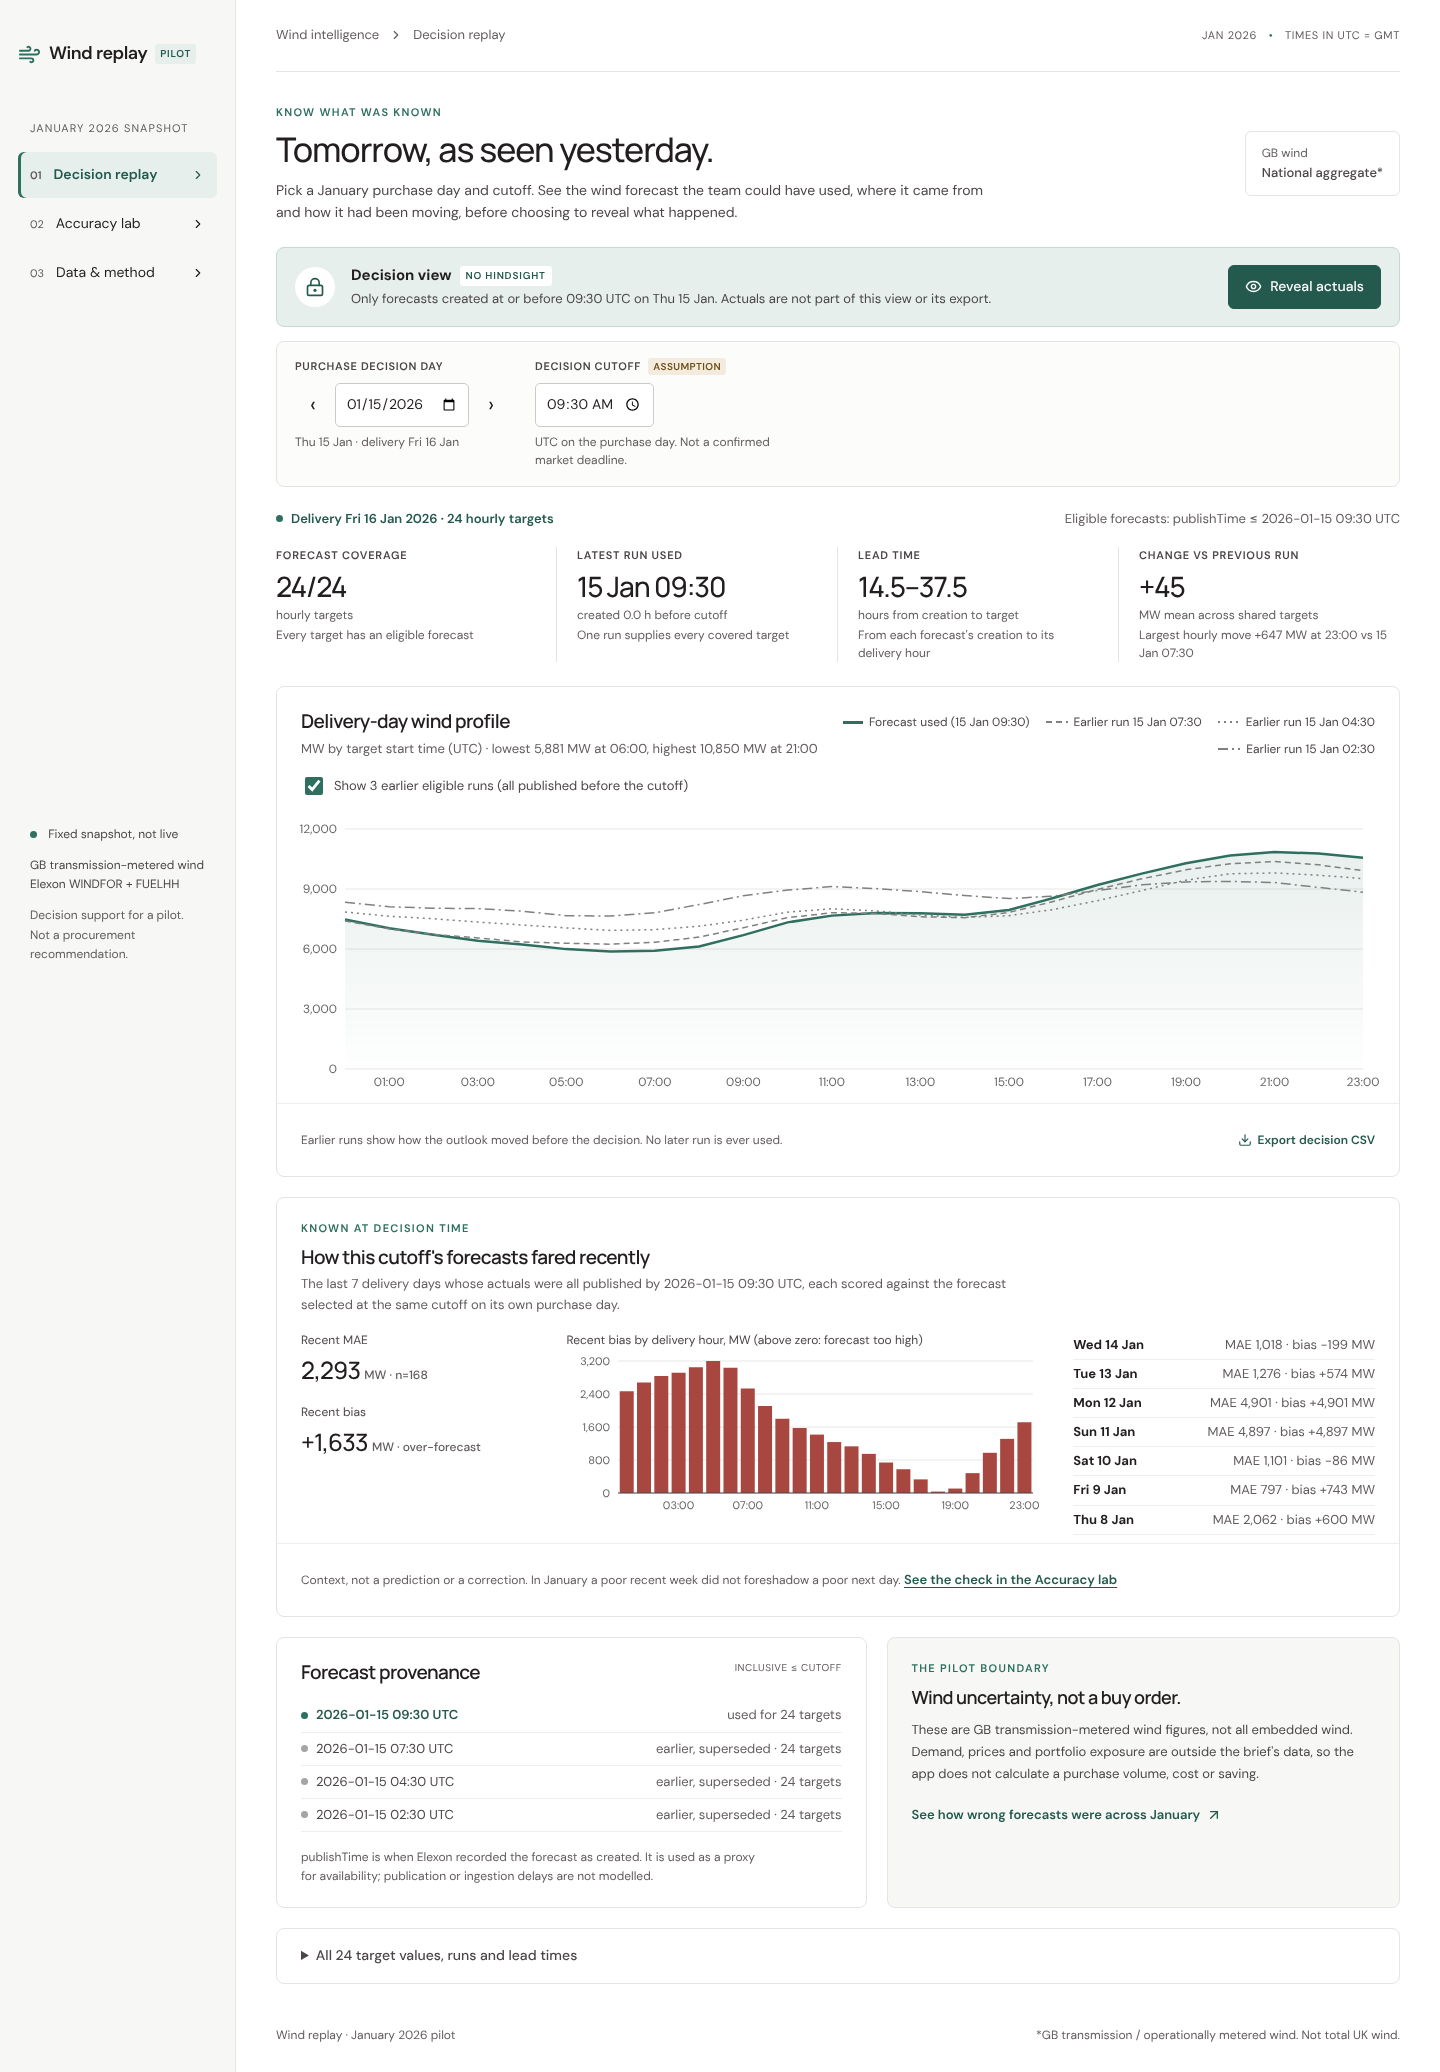
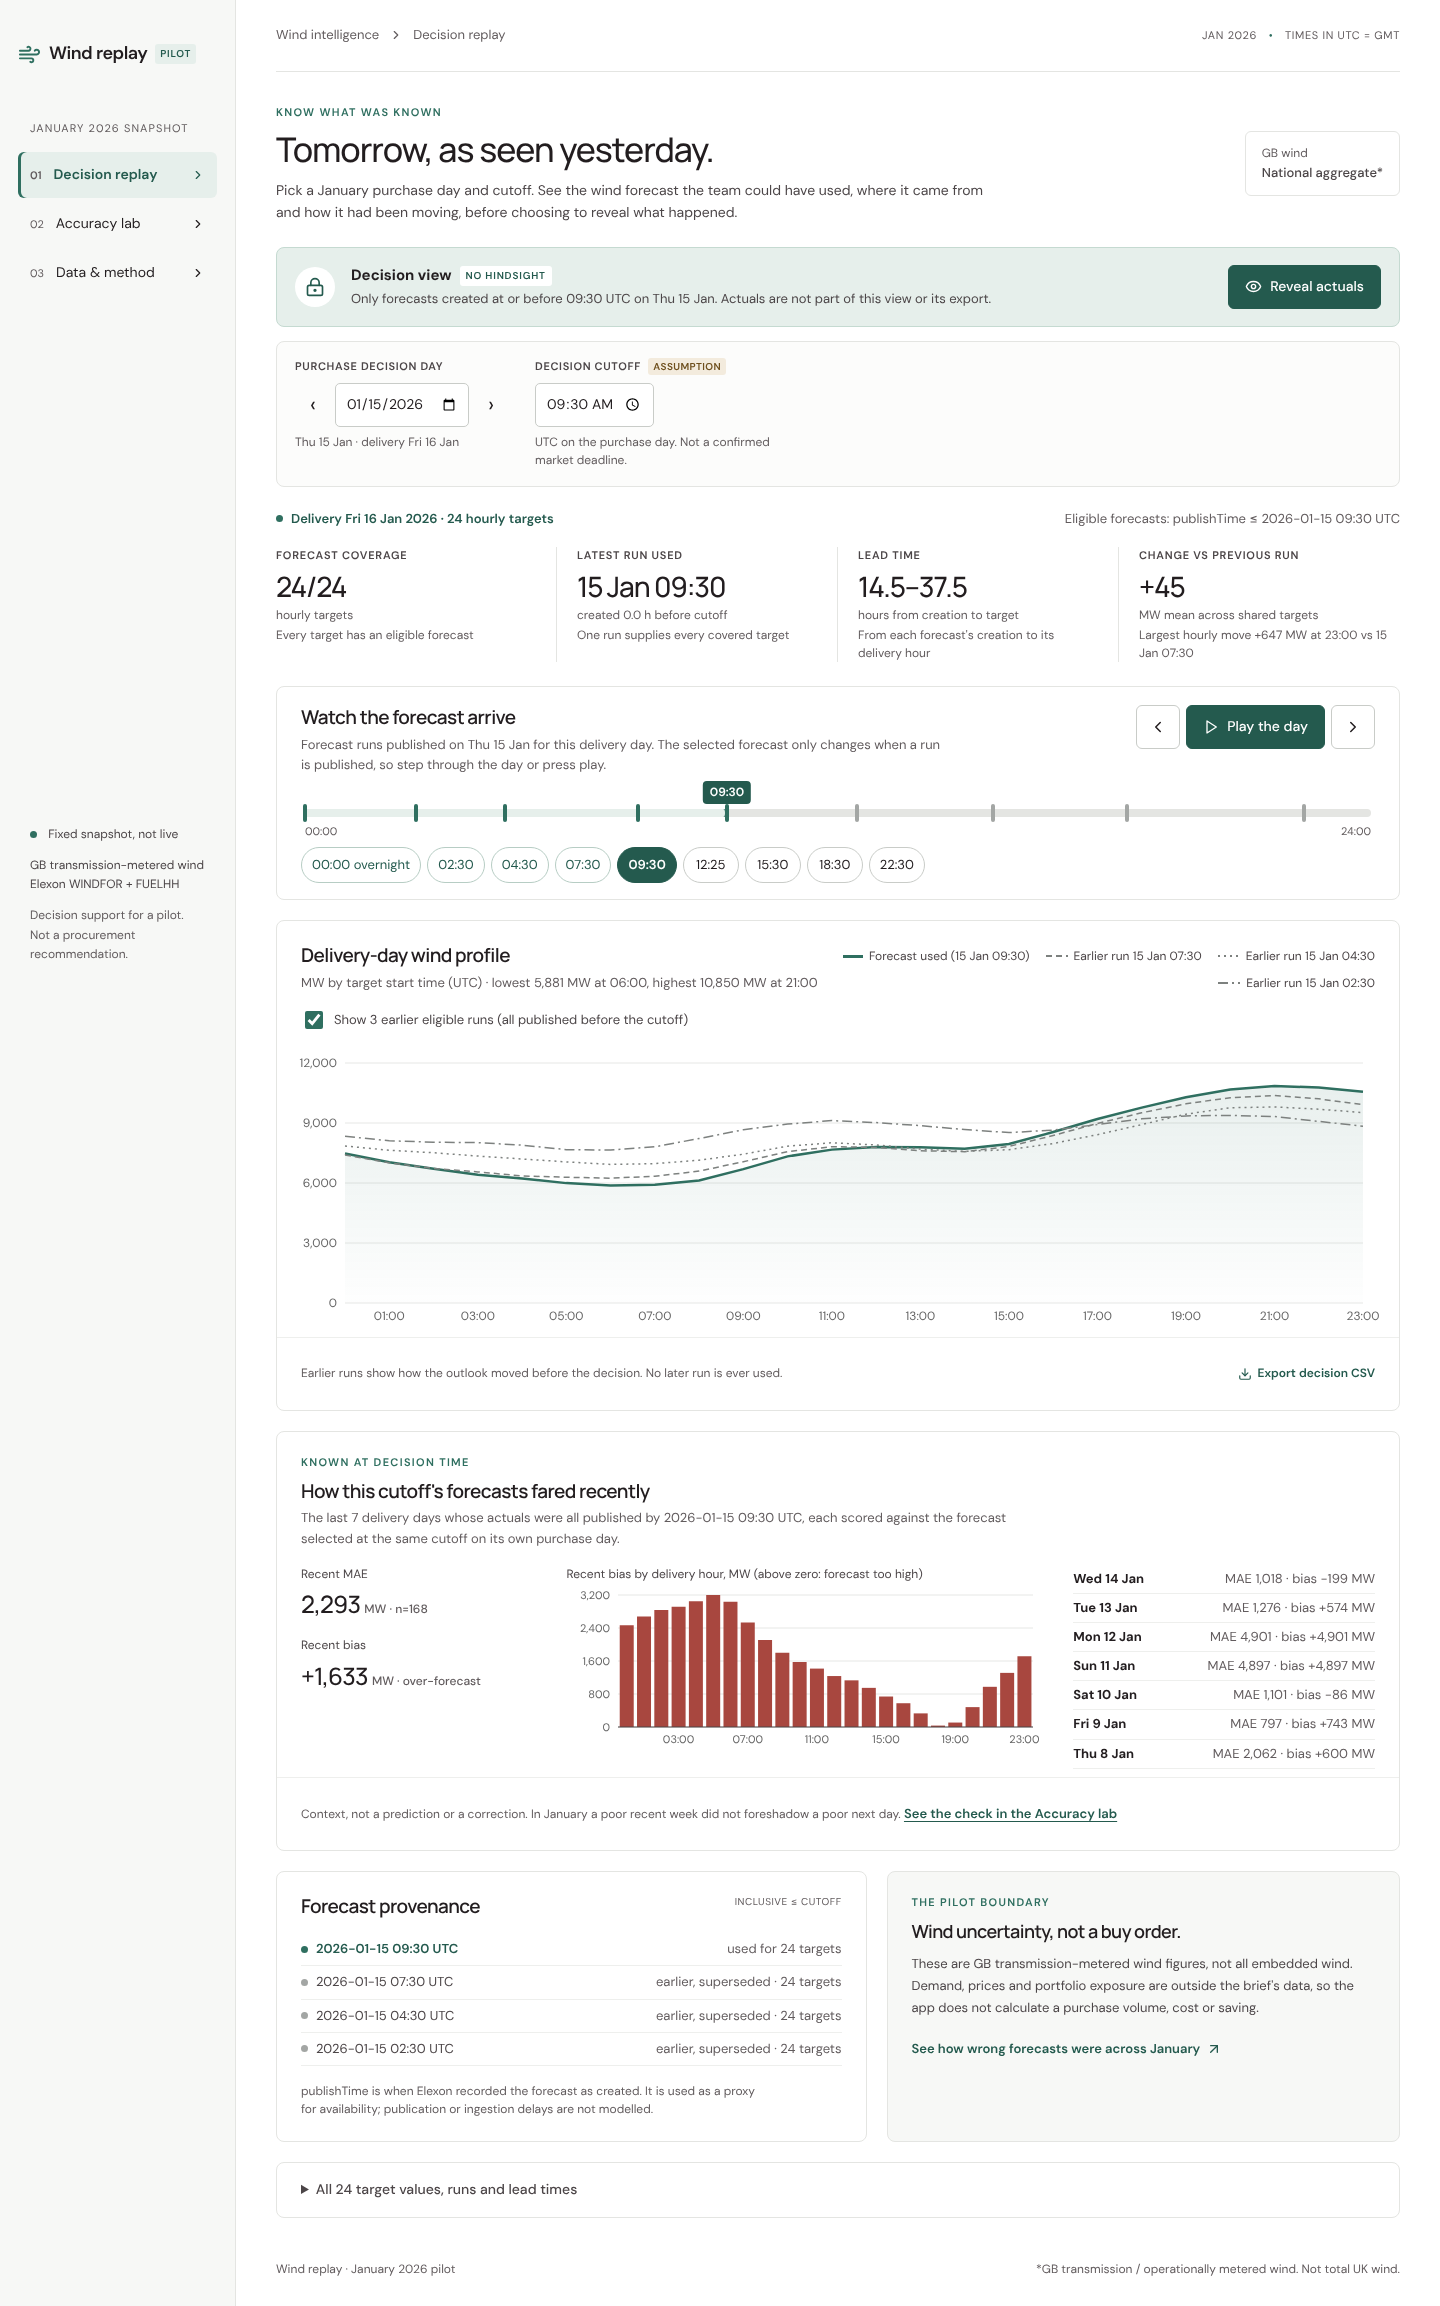
Document the timeline and heatmap and fold them into the demo script
Screenshot capture requests reduced motion so charts are not caught
mid-animation.

diff --git a/README.md b/README.md
@@ -8,7 +8,8 @@ A January 2026 wind-forecast workbench for a UK day-ahead purchasing team. It an
 - **First version.** GitHub Actions passed for commit `5276489`: [run 40538346465](https://github.com/shubhanshu2103/k7m2q9/actions/runs/40538346465). That run covered pytest, the production build, Playwright, and a Docker image build with a container health/replay smoke.
 - **Second pass.** Pushed to branch `second-pass-decision-workbench`; GitHub Actions passed every step for commit `8f3746b`, including the Docker build and container smoke: [run 40546173350](https://github.com/shubhanshu2103/k7m2q9/actions/runs/40546173350). `main` still points at the first version.
 - **Third pass.** The decision-time track record and its backtest. Pushed; GitHub Actions passed every step for commit `58c2327`: [run 40549449242](https://github.com/shubhanshu2103/k7m2q9/actions/runs/40549449242).
-- **Fourth pass.** Error by forecast level, a key findings summary, and enforced lint, formatting and locked Python dependencies. Verified locally (see [Verify](#verify)); CI runs once it is pushed.
+- **Fourth pass.** Error by forecast level, a key findings summary, and enforced lint, formatting and locked Python dependencies. Merged into `main` through [shubhanshu2103/k7m2q9#3](https://github.com/shubhanshu2103/k7m2q9/pull/3); CI passed on `main` ([run 40551629743](https://github.com/shubhanshu2103/k7m2q9/actions/runs/40551629743)).
+- **Fifth pass.** The cutoff timeline with playback, and the month heatmap. Verified locally (see [Verify](#verify)); CI runs once it is pushed.
 - **Still pending.** Vercel/Heroku deployment: **no deployed application link exists yet**. Also pending: the demo video and the form submission.
 
 ## Product
@@ -19,6 +20,7 @@ The app has three screens, and every scenario is kept in the URL so a view can b
   - **Forecast used.** The 24 hourly forecasts for the next UK day, chosen per target from runs published at or before the cutoff.
   - **Provenance.** The run used, its age and lead times, and which targets have no eligible forecast. Missing targets are left blank.
   - **Earlier runs and revision.** Up to three earlier eligible runs are drawn beside the chosen one, with the mean and largest change since the previous run. A buyer can see whether the outlook was moving, with no hindsight.
+  - **Watch the forecast arrive.** A timeline of the purchase day with a stop at every forecast run published that day. Step through it, or press *Play the day* to watch the chart reshape as each run lands. The selection can only change at a publication, so these are the cutoffs that matter. It shows publication *times* of later runs, never their values. Motion is skipped when the system asks for reduced motion.
   - **Track record known at decision time.** How forecasts at the same cutoff fared over the last seven complete delivery days: MAE, bias, bias by hour and each day. It counts only actuals whose own `publishTime` is at or before the cutoff, so it was genuinely knowable when deciding. It is labelled as context, not a prediction or a correction.
   - **Export.** The decision export contains no actuals.
 - **Hindsight is a separate, labelled mode.** "Reveal actuals" switches to an amber *Hindsight view* with MAE, signed bias, the largest miss and a per-hour error chart.
@@ -29,6 +31,7 @@ The app has three screens, and every scenario is kept in the URL so a view can b
   - **What the pilot found.** Four statements computed from the selected scenario, each linking to the panel that evidences it.
   - **Error by forecast level.** MAE, bias, share over-forecast and a 90th-percentile shortfall for hours forecast under 5, 5–10, 10–15 and 15+ GW. The band is known at decision time; the errors are January hindsight.
   - **Shortfall summary.** How often, and by how much, wind came in below the as-of forecast (percentiles of signed error).
+  - **The month at a glance.** A heatmap of every delivery hour (31 days × 24 hours) coloured by over- or under-forecast, with missing pairs hatched rather than shown as zero. Selecting a day opens its replay.
   - **Bad days.** Daily error chart with the five worst days. Clicking a bar or a listed day opens that exact replay in hindsight mode with the same cutoff and rule.
   - **Cutoff sweep.** "Would deciding later have helped?" across 24 hourly cutoffs, flagging cutoffs whose coverage is incomplete.
   - **Track-record backtest.** "Was the recent track record a useful guide?" Compares each day's track record with how that day turned out, and backtests a naive "subtract the recent bias" adjustment. Nothing used is published after the cutoff.
@@ -85,7 +88,7 @@ npm run test:e2e
 python scripts/audit.py             # independent recomputation of the default month
 ```
 
-Observed for the current working tree, locally: **44 Python tests (under both Python 3.12 with `constraints.txt` and 3.13) and 14 browser tests pass**, Ruff and Prettier checks are clean, the strict TypeScript build passes and the independent audit reproduces the baseline numbers exactly. Browser tests start and stop their own backend on port 8000, so stop any local server first. No tests are skipped. Starlette's TestClient emits one deprecation warning; it does not fail the tests.
+Observed for the current working tree, locally: **46 Python tests and 16 browser tests pass**, Ruff and Prettier checks are clean, the strict TypeScript build passes and the independent audit reproduces the baseline numbers exactly. Browser tests start and stop their own backend on port 8000, so stop any local server first. No tests are skipped. Starlette's TestClient emits one deprecation warning; it does not fail the tests.
 
 **Python tests cover:**
 - inclusive publication boundaries and exclusion of future versions
@@ -111,6 +114,9 @@ Observed for the current working tree, locally: **44 Python tests (under both Py
 - keyboard navigation and focus
 - metadata fetched once
 - key findings that follow the selected cutoff and link to their evidence
+- the cutoff timeline: run stops (including the delayed 12:25 run), stepping, leaving hindsight on a new stop, play from 00:00 and pause
+- the heatmap: all 744 cells, five highlighted worst days, drill-through, and 62 gaps at a 01:00 cutoff
+- every panel rendering at a real height, which guards against CSS class collisions
 - no page overflow at 320, 390 and 1440px
 - network-error retry
 - an empty-coverage view that never shows Infinity, NaN or fabricated accuracy
@@ -213,9 +219,9 @@ Refresh intentionally replaces the snapshot. After review, commit the new respon
 - `GET /api/health`
 - `GET /api/meta`: counts, per-day provenance and the snapshot manifest.
 - `GET /api/replay?decision=2026-01-15&cutoff=11:30&rule=hour_mean&reveal=false`
-  - Returns 24 points with `forecast`, `publishTime`, `fallback` and `age_hours`, plus `coverage`, `prior_runs` and `track_record` (built only from actuals published at or before the cutoff).
+  - Returns 24 points with `forecast`, `publishTime`, `fallback` and `age_hours`, plus `coverage`, `prior_runs`, `day_runs` (publication times only, for the timeline) and `track_record` (built only from actuals published at or before the cutoff).
   - With `reveal=true` it also returns `actual`, `actual_publishTimes`, `error`, `metrics` and actual coverage. With `reveal=false` these are absent.
-- `GET /api/analysis?cutoff=09:30&rule=hour_mean`: month metrics, `distribution`, rule sensitivity, per-day and per-hour metrics, and `track_record_check`.
+- `GET /api/analysis?cutoff=09:30&rule=hour_mean`: month metrics, `distribution`, rule sensitivity, per-day and per-hour metrics, `grid` (signed error per day and hour, null when unpaired), `by_level` and `track_record_check`.
 - `GET /api/cutoff-sweep?rule=hour_mean`: month MAE, bias, RMSE, paired n, forecast coverage and mean forecast age for each hourly cutoff 00:00–23:00.
 - `GET /api/export`: same parameters as replay. Returns CSV named by day, cutoff and view, e.g. `wind-replay-2026-01-15-0930-decision.csv`. Hidden actuals remain absent from the decision export.
 - `GET /docs`: generated API reference.
@@ -242,6 +248,8 @@ frontend/ui.tsx                Shared stat, notice, loading/error and control co
 frontend/screens/ReplayScreen.tsx    Decision/hindsight replay
 frontend/screens/AnalysisScreen.tsx  Accuracy lab, drill-through and cutoff sweep
 frontend/screens/MethodScreen.tsx    Data, method and provenance
+frontend/screens/CutoffTimeline.tsx  Run-publication timeline with step and playback
+frontend/screens/ErrorHeatmap.tsx    Day × hour error heatmap
 frontend/style.css             Tokenised responsive styles
 scripts/snapshot.py            Explicit bounded Elexon snapshot acquisition
 scripts/audit.py               Independent numerical cross-check

diff --git a/docs/demo-outline.md b/docs/demo-outline.md
@@ -47,15 +47,15 @@ Scroll to the track record panel.
 
 > "And this is how forecasts at this same time of day fared over the last week: about 2,300 megawatts off on average, and consistently too high. Every actual behind that number was already published before 09:30. Nothing here is hindsight."
 
-**1:25 – Point-in-time precision (40 s).** Change the cutoff to 11:30, then to 12:25.
+**1:25 – Watch the forecast arrive (40 s).** Scroll up to the timeline and press *Play the day*. Let it run to 12:25, then press *Pause*.
 
-> "Precision matters. Move the decision to 11:30: we still use the 09:30 run, because that day the usual 11:30 run was only published at 12:25. At 12:25 it appears."
+> "This is the whole day of publications. Press play and you watch the forecast for tomorrow change as each run lands. Notice there is no 11:30 stop: that day the usual 11:30 run was only published at 12:25, so a buyer deciding at 11:30 still had the 09:30 forecast."
 
 Switch to Tab 2.
 
 > "And if you decided at 1 a.m. on New Year's Day, the last two hours of tomorrow had no forecast yet. We leave them blank instead of guessing."
 
-**2:05 – Reveal what happened (35 s).** Back to Tab 1 and set the cutoff to 09:30. Click *Reveal actuals*.
+**2:05 – Reveal what happened (35 s).** Back to Tab 1 and click the *09:30* stop. Click *Reveal actuals*.
 
 > "Now we look back. The banner turns amber: this is hindsight. Tomorrow's forecast was off by about 860 megawatts on average, and at 9 p.m. it was 2,600 too high: less wind arrived than promised."
 
@@ -73,9 +73,13 @@ Read the four findings, pointing at each.
 
 > "Two: the windier the forecast, the bigger the overstatement. Above 15 gigawatts it was too high 98% of the time. So when the forecast is very windy, that is when to be most careful."
 
-Click *Worst days*, then the top *Replay* button.
+Scroll to the heatmap.
 
-> "Three: a few days dominate. The five worst carried over a third of all error. One click opens any of them: on the 28th, every single hour was over-forecast by more than 4 gigawatts."
+> "Three: a few days dominate. This is every hour of the month: red is too high, blue too low. The solid red rows are whole days the forecast got wrong, and the five worst carried over a third of all error."
+
+Click *28 Jan* in the heatmap.
+
+> "One click opens any of them: on the 28th, every single hour was over-forecast by more than 4 gigawatts."
 
 Press Back. *Optional:* scroll to the cutoff chart: "Deciding later helps only a little: about 110 megawatts by midday."
 

diff --git a/docs/verification.md b/docs/verification.md
@@ -15,6 +15,16 @@ These results apply to that commit only. The second pass does not inherit them.
 
 Pushed to `second-pass-decision-workbench`. GitHub Actions [run 40546173350](https://github.com/shubhanshu2103/k7m2q9/actions/runs/40546173350) on commit `8f3746b` passed every step on Python 3.12 and Ubuntu: pytest (37), the audit, the production build, Playwright (12), the Docker image build, and the container health and replay smoke. This resolves the local Docker gap noted below.
 
+## Fifth pass (local, 27 October 2026)
+
+- **Checks.** 46 pytest and 16 Playwright pass; Ruff, Prettier and the strict build pass. New Python tests check that `day_runs` lists purchase-day publications only (no forecast values after the cutoff reach the decision response) and that the analysis `grid` matches the per-day points, including gaps at a 01:00 cutoff.
+- **A bug the tests caught.** The first version of the timeline reused the class name `.track`, which the track-record panel also uses. That panel collapsed to 8 px and its content overlapped the sections below. The responsive browser test failed because the overlapped summary could not be clicked. I renamed the timeline classes, and the responsive test now also asserts that every panel renders taller than 40 px.
+- **Visual inspection.** Timeline and heatmap were checked at 1440 and 320 px, and playback was checked to advance through the runs. Fixed after review: Play now always starts the day from 00:00. Screenshot capture now requests reduced motion, so charts are not caught mid-animation.
+
+## Fourth pass in CI
+
+Merged through [shubhanshu2103/k7m2q9#3](https://github.com/shubhanshu2103/k7m2q9/pull/3). CI passed on the branch ([run 40551431752](https://github.com/shubhanshu2103/k7m2q9/actions/runs/40551431752)) and on `main` ([run 40551629743](https://github.com/shubhanshu2103/k7m2q9/actions/runs/40551629743)), including Docker with `constraints.txt`.
+
 ## Fourth pass (local, 27 October 2026)
 
 - **Python.** 44 pytest pass under Python 3.13 and, in a clean venv installed with `-c constraints.txt`, under Python 3.12. New tests cover forecast-level bands partitioning paired hours, and the real band values.
